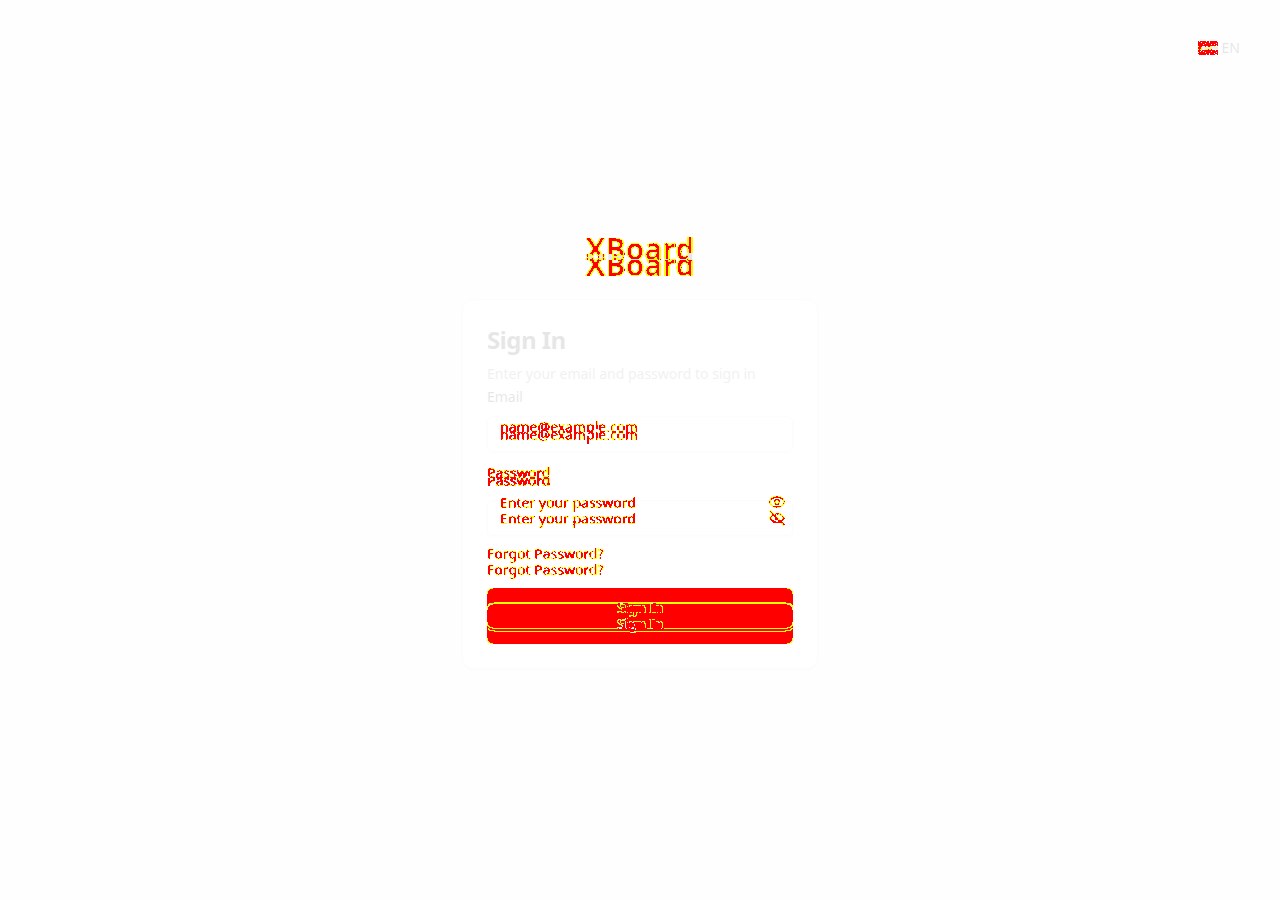
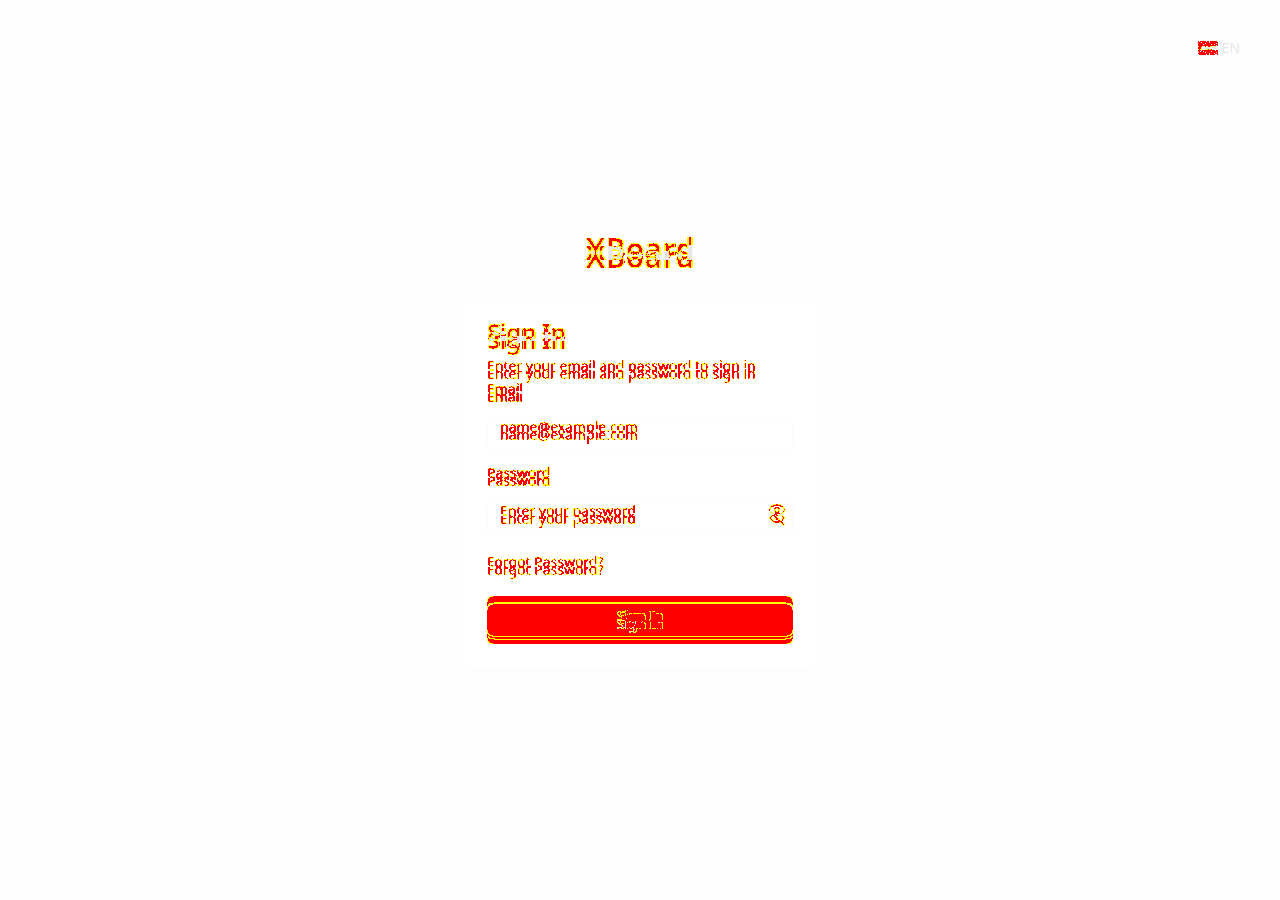
fix(admin): R7 xb-stack sweep on dashboard, server protocol, login, traffic-reset
- Add xb-stack-1; replace space-y-* with xb-stack-* in DashboardPage, LoginPage
- ServerProtocolFields, ServerManagePage dialog py-3/xb-stack-3
- TrafficReset stats section xb-stack-2; Plan price fields xb-stack-15

diff --git a/frontend/admin/src/components/server/ServerProtocolFields.tsx b/frontend/admin/src/components/server/ServerProtocolFields.tsx
@@ -471,7 +471,7 @@ function ShadowsocksCertFields({
   }
 
   return (
-    <div className="space-y-3">
+    <div className="xb-stack-3">
       <div className="xb-stack-2">
         <Label className={serverFieldLabelCls}>{t(`${locale}.cert_mode.label`)}</Label>
         <FormSelect
@@ -529,7 +529,7 @@ function ShadowsocksCertFields({
       ) : null}
 
       {mode === 'dns' ? (
-        <div className="space-y-3">
+        <div className="xb-stack-3">
           <div className="xb-stack-2">
             <Label className={serverFieldLabelCls}>{t(`${locale}.dns_provider.label`)}</Label>
             <input
@@ -565,7 +565,7 @@ function ShadowsocksCertFields({
       ) : null}
 
       {mode === 'content' ? (
-        <div className="space-y-3">
+        <div className="xb-stack-3">
           <div className="xb-stack-2">
             <Label className={serverFieldLabelCls}>{t(`${locale}.cert_content.label`)}</Label>
             <textarea
@@ -629,7 +629,7 @@ function ShadowsocksProtocolFields({
   }
 
   return (
-    <div className="space-y-3">
+    <div className="xb-stack-3">
       <CipherSelect
         value={value.cipher}
         onChange={(cipher) => onChange({ ...value, cipher })}
@@ -754,7 +754,7 @@ function ShadowsocksFields({
   const { t } = useTranslation()
 
   return (
-    <div className="col-span-2 space-y-3 rounded-lg border border-dashed p-3">
+    <div className="col-span-2 xb-stack-3 rounded-lg border border-dashed p-3">
       <Tabs value={tab} onValueChange={onTabChange}>
         <TabsList className="grid h-9 w-full grid-cols-2">
           <TabsTrigger value="protocol" className="text-xs">
@@ -764,7 +764,7 @@ function ShadowsocksFields({
             {t('server.dynamic_form.shadowsocks.cert_config.tab')}
           </TabsTrigger>
         </TabsList>
-        <TabsContent value="protocol" className="mt-3 space-y-3">
+        <TabsContent value="protocol" className="mt-3 xb-stack-3">
           <ShadowsocksProtocolFields value={value} onChange={onChange} />
         </TabsContent>
         <TabsContent value="cert" className="mt-3">
@@ -867,7 +867,7 @@ function VmessFields({
   const { t } = useTranslation()
 
   return (
-    <div className="col-span-2 space-y-3 rounded-lg border border-dashed p-3">
+    <div className="col-span-2 xb-stack-3 rounded-lg border border-dashed p-3">
       <div className="xb-stack-2">
         <Label className={serverFieldLabelCls}>{t('server.dynamic_form.vmess.tls.label')}</Label>
         <FormSelect
@@ -967,7 +967,7 @@ function RealityFields({
   }
 
   return (
-    <div className="space-y-3">
+    <div className="xb-stack-3">
       <div className="grid grid-cols-2 gap-3">
         <div className="xb-stack-2 col-span-2 sm:col-span-1">
           <Label className={serverFieldLabelCls}>{t(`${locale}.server_name.label`)}</Label>
@@ -1064,7 +1064,7 @@ function TrojanFields({
   const { t } = useTranslation()
 
   return (
-    <div className="col-span-2 space-y-3 rounded-lg border border-dashed p-3">
+    <div className="col-span-2 xb-stack-3 rounded-lg border border-dashed p-3">
       <div className="xb-stack-2">
         <Label className={serverFieldLabelCls}>{t('server.dynamic_form.vless.tls.label')}</Label>
         <FormSelect
@@ -1145,7 +1145,7 @@ function VlessFields({
   const { t } = useTranslation()
 
   return (
-    <div className="col-span-2 space-y-3 rounded-lg border border-dashed p-3">
+    <div className="col-span-2 xb-stack-3 rounded-lg border border-dashed p-3">
       <div className="xb-stack-2">
         <Label className={serverFieldLabelCls}>{t('server.dynamic_form.vless.tls.label')}</Label>
         <FormSelect
@@ -1226,7 +1226,7 @@ function VlessFields({
         onChange={(network_settings) => onChange({ ...value, network_settings })}
       />
 
-      <div className="space-y-3 rounded-lg border bg-muted/10 p-3">
+      <div className="xb-stack-3 rounded-lg border bg-muted/10 p-3">
         <div className="flex items-center justify-between gap-3">
           <div>
             <Label className={serverFieldLabelCls}>{t('server.dynamic_form.vless.encryption.label')}</Label>
@@ -1242,7 +1242,7 @@ function VlessFields({
           />
         </div>
         {value.encryption.enabled ? (
-          <div className="space-y-3 border-t border-dashed pt-3">
+          <div className="xb-stack-3 border-t border-dashed pt-3">
             <div className="xb-stack-2">
               <Label className={serverFieldLabelCls}>{t('server.dynamic_form.vless.encryption.server_label')}</Label>
               <input
@@ -1324,7 +1324,7 @@ function HysteriaFields({
     value.version === 2 ? t('server.dynamic_form.hysteria.bandwidth.up.bbr_tip') : ''
 
   return (
-    <div className="col-span-2 space-y-3 rounded-lg border border-dashed p-3">
+    <div className="col-span-2 xb-stack-3 rounded-lg border border-dashed p-3">
       <div className="grid grid-cols-2 gap-4">
         <div className="xb-stack-2">
           <Label className={serverFieldLabelCls}>{t('server.dynamic_form.hysteria.version.label')}</Label>
@@ -1462,7 +1462,7 @@ function TuicFields({
   }
 
   return (
-    <div className="col-span-2 space-y-3 rounded-lg border border-dashed p-3">
+    <div className="col-span-2 xb-stack-3 rounded-lg border border-dashed p-3">
       <div className="xb-stack-2">
         <Label className={serverFieldLabelCls}>{t('server.dynamic_form.tuic.version.label')}</Label>
         <FormSelect
@@ -1550,7 +1550,7 @@ function AnyTlsFields({
   }
 
   return (
-    <div className="col-span-2 space-y-3 rounded-lg border border-dashed p-3">
+    <div className="col-span-2 xb-stack-3 rounded-lg border border-dashed p-3">
       <div className="grid grid-cols-2 gap-4">
         <div className="xb-stack-2">
           <Label className={serverFieldLabelCls}>{t('server.dynamic_form.anytls.tls.server_name.label')}</Label>

diff --git a/frontend/admin/src/pages/DashboardPage.tsx b/frontend/admin/src/pages/DashboardPage.tsx
@@ -492,7 +492,7 @@ export default function DashboardPage() {
       </div>
 
       <div className="rounded-xl border bg-card text-card-foreground shadow">
-        <div className="flex flex-col space-y-1.5 p-6">
+        <div className="flex flex-col xb-stack-15 p-6">
           <div className="flex items-center justify-between">
             <div>
               <h3 className="font-semibold leading-none tracking-tight">{t('dashboard.overview.title')}</h3>
@@ -579,7 +579,7 @@ export default function DashboardPage() {
         </div>
         <div className="p-6 pt-0">
           <div className="grid grid-cols-2 gap-4">
-            <div className="space-y-1">
+            <div className="xb-stack-1">
               <div className="text-sm text-muted-foreground">{t('dashboard.overview.totalIncome')}</div>
               <div className="text-2xl font-bold">{formatMoney(paidTotal)}</div>
               <div className="text-xs text-muted-foreground">
@@ -589,7 +589,7 @@ export default function DashboardPage() {
                 {t('dashboard.overview.avgOrderAmount')} {formatMoney(avgOrder)}
               </div>
             </div>
-            <div className="space-y-1">
+            <div className="xb-stack-1">
               <div className="text-sm text-muted-foreground">{t('dashboard.overview.totalCommission')}</div>
               <div className="text-2xl font-bold">{formatMoney(commissionTotal)}</div>
               <div className="text-xs text-muted-foreground">
@@ -816,7 +816,7 @@ function QueueStatusCard({ stats }: { stats: QueueStats }) {
 
       </CardHeader>
 
-      <CardContent className="space-y-4 text-sm">
+      <CardContent className="xb-stack-4 text-sm">
 
         <div className="flex items-center justify-between">
 
@@ -830,7 +830,7 @@ function QueueStatusCard({ stats }: { stats: QueueStats }) {
 
         </div>
 
-        <div className="space-y-1">
+        <div className="xb-stack-1">
 
           <div className="flex items-center justify-between">
 
@@ -848,7 +848,7 @@ function QueueStatusCard({ stats }: { stats: QueueStats }) {
 
         </div>
 
-        <div className="space-y-1">
+        <div className="xb-stack-1">
 
           <div className="flex items-center justify-between">
 
@@ -902,9 +902,9 @@ function QueueDetailsCard({
 
       </CardHeader>
 
-      <CardContent className="space-y-4 text-sm">
+      <CardContent className="xb-stack-4 text-sm">
 
-        <div className="space-y-2 rounded-lg bg-muted/50 p-3">
+        <div className="xb-stack-2 rounded-lg bg-muted/50 p-3">
 
           <p className="text-muted-foreground">{t('dashboard.queue.details.failedJobs7Days')}</p>
 
@@ -945,7 +945,7 @@ function QueueDetailsCard({
 
         </div>
 
-        <div className="space-y-1">
+        <div className="xb-stack-1">
 
           <div className="flex items-center justify-between">
 
@@ -1246,11 +1246,11 @@ function FailedJobDetailDialog({
 
         {job ? (
 
-          <div className="space-y-5 text-sm">
+          <div className="xb-stack-gap text-sm">
 
             <div className="grid grid-cols-2 gap-4">
 
-              <div className="space-y-2">
+              <div className="xb-stack-2">
 
                 <h3 className="font-medium text-muted-foreground">{t('dashboard.queue.details.id')}</h3>
 
@@ -1258,7 +1258,7 @@ function FailedJobDetailDialog({
 
               </div>
 
-              <div className="space-y-2">
+              <div className="xb-stack-2">
 
                 <h3 className="font-medium text-muted-foreground">{t('dashboard.queue.details.time')}</h3>
 
@@ -1270,7 +1270,7 @@ function FailedJobDetailDialog({
 
             <div className="grid grid-cols-2 gap-4">
 
-              <div className="space-y-2">
+              <div className="xb-stack-2">
 
                 <h3 className="font-medium text-muted-foreground">{t('dashboard.queue.details.queue')}</h3>
 
@@ -1278,7 +1278,7 @@ function FailedJobDetailDialog({
 
               </div>
 
-              <div className="space-y-2">
+              <div className="xb-stack-2">
 
                 <h3 className="font-medium text-muted-foreground">{t('dashboard.queue.details.connection')}</h3>
 
@@ -1288,7 +1288,7 @@ function FailedJobDetailDialog({
 
             </div>
 
-            <div className="space-y-2">
+            <div className="xb-stack-2">
 
               <h3 className="font-medium text-muted-foreground">{t('dashboard.queue.details.name')}</h3>
 
@@ -1296,7 +1296,7 @@ function FailedJobDetailDialog({
 
             </div>
 
-            <div className="space-y-2">
+            <div className="xb-stack-2">
 
               <h3 className="font-medium text-muted-foreground">{t('dashboard.queue.details.exception')}</h3>
 
@@ -1308,7 +1308,7 @@ function FailedJobDetailDialog({
 
             </div>
 
-            <div className="space-y-2">
+            <div className="xb-stack-2">
 
               <h3 className="font-medium text-muted-foreground">{t('dashboard.queue.details.payload')}</h3>
 

diff --git a/frontend/admin/src/pages/LoginPage.tsx b/frontend/admin/src/pages/LoginPage.tsx
@@ -102,8 +102,8 @@ export default function LoginPage() {
         </DropdownMenu>
       </div>
 
-      <div className="mx-auto flex w-full flex-col justify-center space-y-4 sm:w-[350px] md:w-[420px] lg:p-8">
-        <div className="flex flex-col space-y-2 text-center">
+      <div className="mx-auto flex w-full flex-col justify-center xb-stack-4 sm:w-[350px] md:w-[420px] lg:p-8">
+        <div className="flex flex-col xb-stack-2 text-center">
           <h1 className="text-2xl font-bold sm:text-3xl">{settings.title || 'XBoard'}</h1>
           {settings.description ? (
             <p className="text-sm text-muted-foreground">{settings.description}</p>
@@ -111,15 +111,15 @@ export default function LoginPage() {
         </div>
 
         <div className="rounded-xl border bg-card p-4 text-card-foreground shadow-sm sm:p-6">
-          <div className="flex flex-col space-y-2 text-left">
+          <div className="flex flex-col xb-stack-2 text-left">
             <h1 className="text-xl font-semibold tracking-tight sm:text-2xl">
               {t('auth.signIn.title')}
             </h1>
             <p className="text-sm text-muted-foreground">{t('auth.signIn.description')}</p>
           </div>
           <div className="grid gap-6">
-          <form className="space-y-4" onSubmit={onSubmit}>
-            <div className="space-y-4">
+          <form className="xb-stack-4" onSubmit={onSubmit}>
+            <div className="xb-stack-4">
               {error ? <p className="text-sm text-destructive">{error}</p> : null}
               <div className="xb-stack-2">
                 <Label

diff --git a/frontend/admin/src/pages/modules/PlanPage.tsx b/frontend/admin/src/pages/modules/PlanPage.tsx
@@ -625,7 +625,7 @@ export default function PlanPage() {
               </div>
               <div className="grid grid-cols-2 gap-2 sm:grid-cols-3 md:grid-cols-4">
                 {MAIN_PRICE_PERIODS.map((period) => (
-                  <div key={period} className="space-y-1.5">
+                  <div key={period} className="xb-stack-15">
                     <Label className={dialogFieldLabelCls}>
                       {t(`subscribe.plan.columns.price_period.${period}`)}
                     </Label>
@@ -641,7 +641,7 @@ export default function PlanPage() {
               </div>
               <div className="grid grid-cols-1 gap-3 sm:grid-cols-2">
                 {EXTRA_PRICE_PERIODS.map((period) => (
-                  <div key={period} className="space-y-1.5">
+                  <div key={period} className="xb-stack-15">
                     <Label className={dialogFieldLabelCls}>
                       {t(`subscribe.plan.columns.price_period.${period}`)}
                     </Label>

diff --git a/frontend/admin/src/pages/modules/UserPage.tsx b/frontend/admin/src/pages/modules/UserPage.tsx
@@ -1382,7 +1382,7 @@ export default function UserPage() {
           showCloseButton={false}
           className="w-full max-w-[90%] overflow-y-auto p-6 sm:w-[448px] sm:max-w-[448px]"
         >
-          <SheetHeader className="space-y-2 p-0 text-center sm:text-left">
+          <SheetHeader className="xb-stack-2 p-0 text-center sm:text-left">
             <SheetTitle className="text-lg font-semibold leading-9 tracking-tight">
               {t('user.edit.title')}
             </SheetTitle>

diff --git a/frontend/admin/src/pages/modules/TrafficResetPage.tsx b/frontend/admin/src/pages/modules/TrafficResetPage.tsx
@@ -315,7 +315,7 @@ export default function TrafficResetPage() {
         <p className="mt-2 text-muted-foreground">{t('user.traffic_reset_logs.description')}</p>
       </div>
 
-      <div className="mb-4 space-y-2">
+      <div className="mb-4 xb-stack-2">
         <div className="flex flex-wrap items-center justify-between gap-2">
           <div>
             <h3 className="text-sm font-medium">{t('user.traffic_reset.stats.title')}</h3>

diff --git a/frontend/admin/src/pages/modules/ServerManagePage.tsx b/frontend/admin/src/pages/modules/ServerManagePage.tsx
@@ -1547,8 +1547,8 @@ export default function ServerManagePage() {
           </div>
 
           <div className="flex h-[75vh] min-h-[500px] flex-col">
-          <div className="min-h-0 flex-1 overflow-y-auto px-6 py-4">
-          <div className="xb-stack-4">
+          <div className="min-h-0 flex-1 overflow-y-auto px-6 py-3">
+          <div className="xb-stack-3">
 
             <div className="flex gap-4">
 

diff --git a/frontend/admin/src/components/shared/LocaleFlag.tsx b/frontend/admin/src/components/shared/LocaleFlag.tsx
@@ -1,26 +1,15 @@
 import flags from './flag-svgs.json'
 
-
-
 type Props = {
-
   locale: string
-
 }
 
-
-
 export function LocaleFlag({ locale }: Props) {
-
   const svg = flags[locale as keyof typeof flags] ?? flags['en-US']
-
   return (
     <span
       className="inline-flex [&>svg]:h-4 [&>svg]:w-5 [&>svg]:rounded-sm [&>svg]:shadow-sm"
       dangerouslySetInnerHTML={{ __html: svg }}
     />
   )
-
 }
-
-

diff --git a/frontend/admin/src/index.css b/frontend/admin/src/index.css
@@ -87,6 +87,11 @@ body {
   margin-top: 0.125rem;
 }
 
+/** 0.25rem — Tailwind space-y-1 */
+.xb-stack-1 > * + * {
+  margin-top: 0.25rem;
+}
+
 /** 0.375rem — Tailwind space-y-1.5 */
 .xb-stack-15 > * + * {
   margin-top: 0.375rem;
